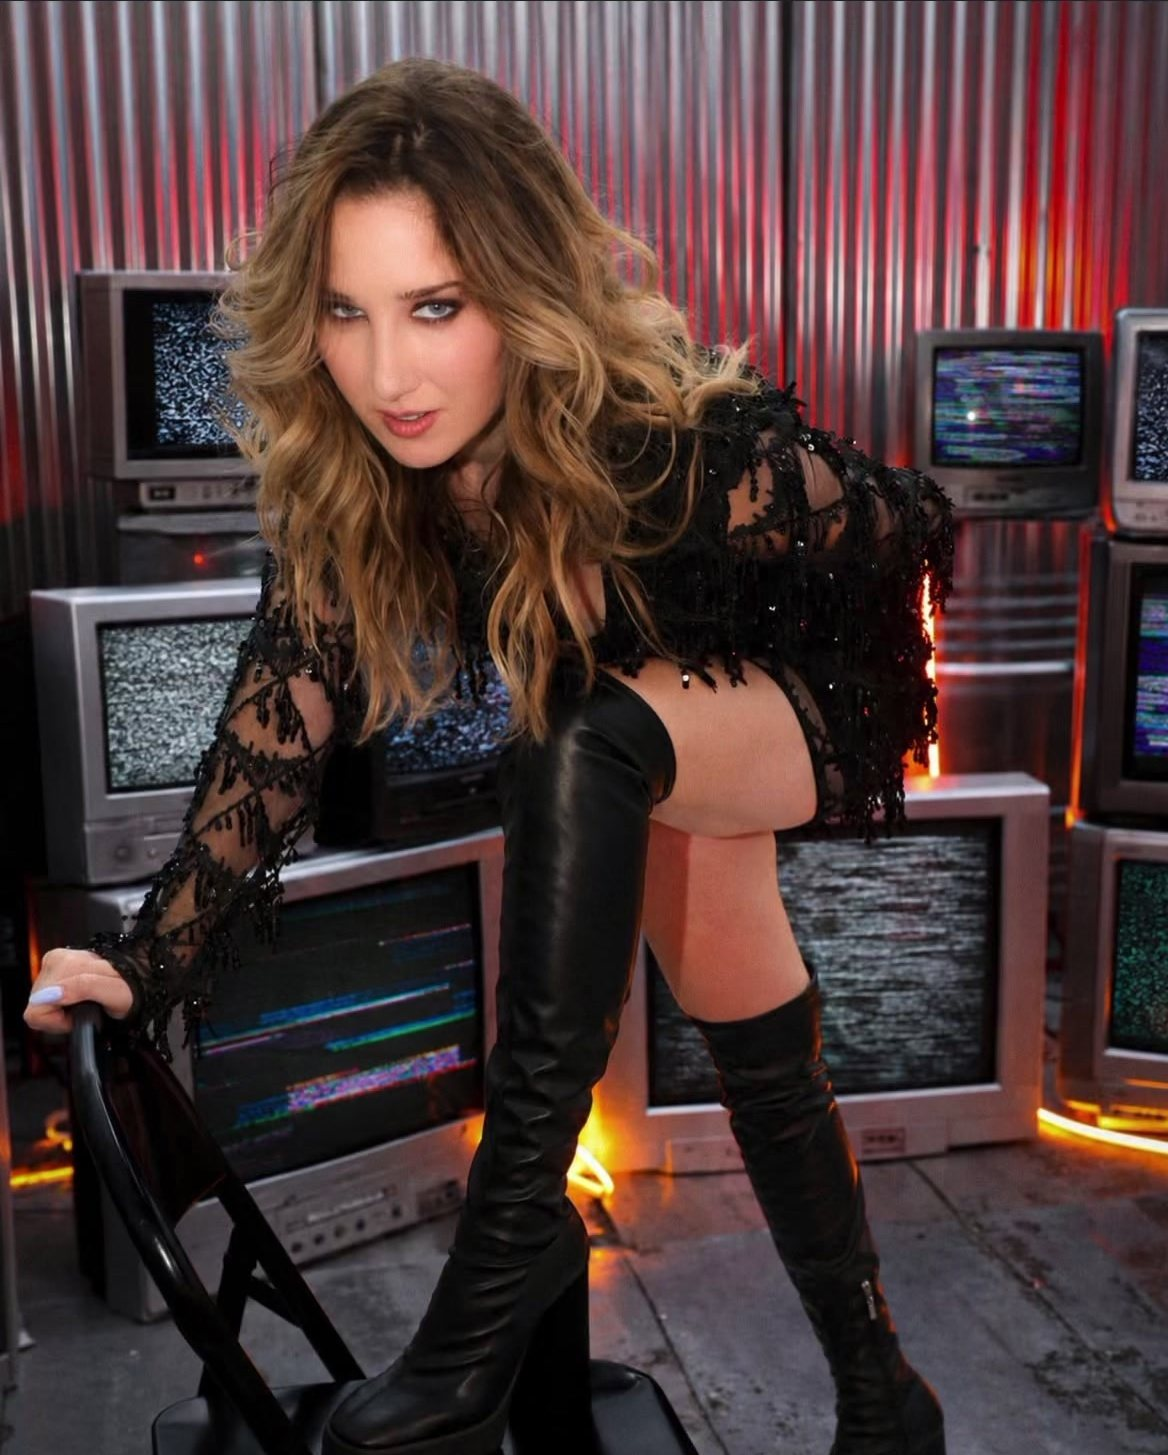
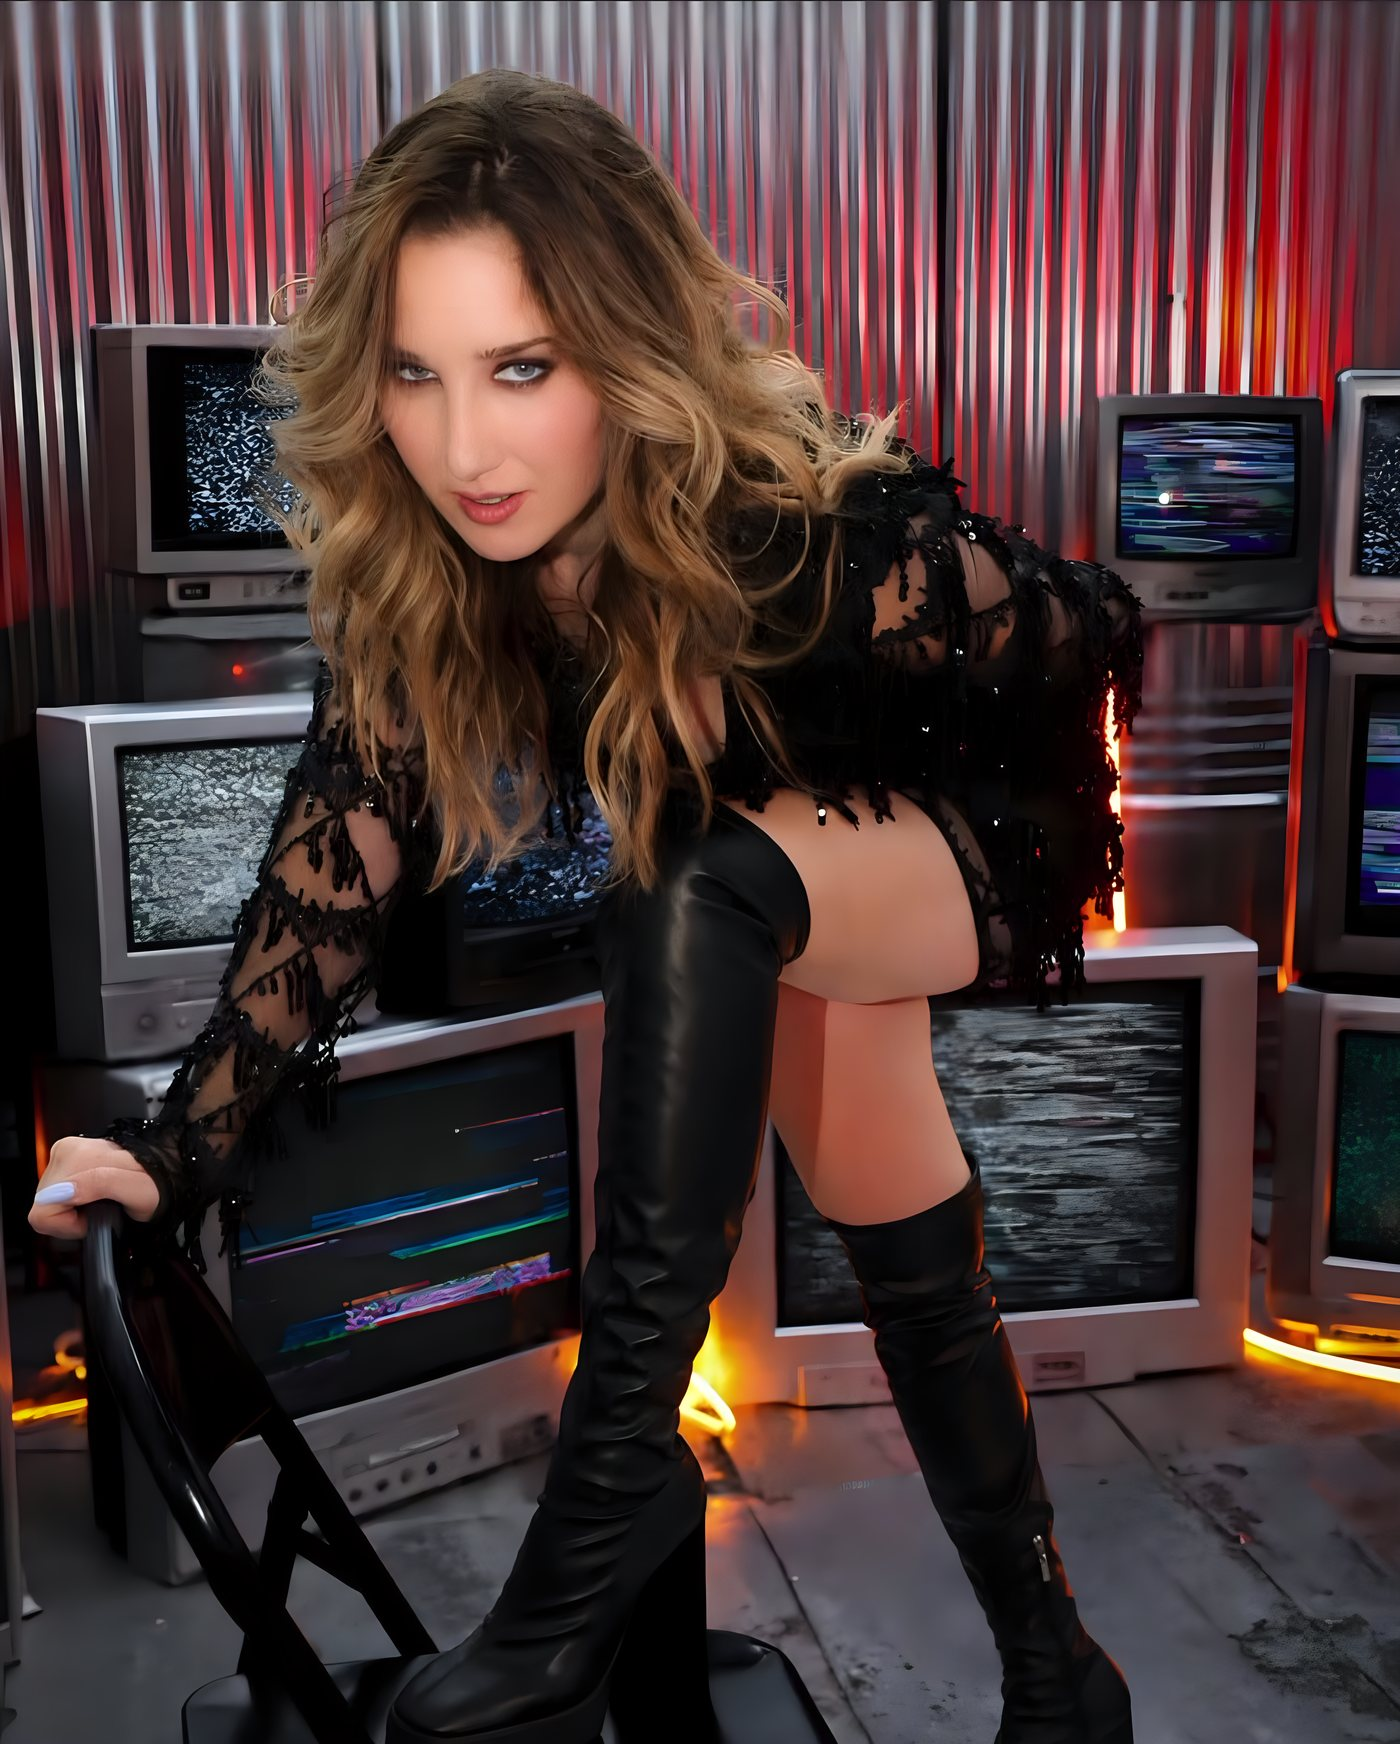
Book a Shoot: enhance every image, keep every face in frame (#20)
* Keep every face clear in the Book a Shoot hero stack

The front card covered the bottom of the blue-lit portrait's face at
every width. Lower and shorten it (top 22% -> 30%, height 72% -> 68%).

Claude-Session: https://claude.ai/code/session_018kHvtx6hTxezyWP4kJpPeQ

* Enhance every Book a Shoot image and keep all heads in frame

All 16 portfolio images are re-upscaled 4x with Real-ESRGAN from their
cleanest source frames and saved at 1400px.
- Silver-beard portrait: Instagram's "1/2" badge is painted out
  instead of cropped, so his full head is back.
- Fitness bench shot: re-cropped higher from the flyer with the frame
  line painted out, so the whole beanie shows.

An automated face check (crop and overlap, 7 viewport widths) reports
no hidden faces.

Claude-Session: https://claude.ai/code/session_018kHvtx6hTxezyWP4kJpPeQ

---------

diff --git a/book-a-shoot/index.html b/book-a-shoot/index.html
@@ -63,7 +63,7 @@
   .bs-stack img { display: block; width: 100%; height: 100%; object-fit: cover; }
   .bs-stack .s1 { width: 54%; height: 76%; left: 0;   top: 12%; transform: rotate(-6deg); }
   .bs-stack .s2 { width: 54%; height: 76%; right: 0;  top: 4%;  transform: rotate(5deg); }
-  .bs-stack .s3 { width: 52%; height: 72%; left: 24%; top: 22%; transform: rotate(-1deg); z-index: 2; }
+  .bs-stack .s3 { width: 52%; height: 68%; left: 24%; top: 30%; transform: rotate(-1deg); z-index: 2; }
   .bs-stack figcaption {
     position: absolute; left: 12px; bottom: 12px; padding: 6px 10px; border-radius: 999px;
     background: rgba(10,10,10,0.7); color: var(--cream);
@@ -246,9 +246,9 @@
       </div>
     </div>
     <div class="bs-stack" aria-hidden="true">
-      <figure class="s1"><img src="../images/book-a-shoot/editorial-lace.jpg" alt="" width="1168" height="1455"></figure>
-      <figure class="s2"><img src="../images/book-a-shoot/editorial-blue.jpg" alt="" width="1168" height="1340" style="object-position:center 20%"></figure>
-      <figure class="s3"><img src="../images/book-a-shoot/portrait-white-dress.jpg" alt="" width="1168" height="1340" style="object-position:62% center"><figcaption>@aureanatphoto</figcaption></figure>
+      <figure class="s1"><img src="../images/book-a-shoot/editorial-lace.jpg" alt="" width="1400" height="1744"></figure>
+      <figure class="s2"><img src="../images/book-a-shoot/editorial-blue.jpg" alt="" width="1400" height="1606" style="object-position:center 20%"></figure>
+      <figure class="s3"><img src="../images/book-a-shoot/portrait-white-dress.jpg" alt="" width="1400" height="1606" style="object-position:62% center"><figcaption>@aureanatphoto</figcaption></figure>
     </div>
   </div>
 </header>
@@ -264,7 +264,7 @@
     </p>
     <div class="bs-services">
       <article class="bs-card" id="fitness">
-        <div class="media"><img src="../images/book-a-shoot/fitness-bench.jpg" alt="Woman in a black training set seated on a gym bench in front of a dumbbell rack" width="1200" height="1784" loading="lazy" style="object-position:center 4%"></div>
+        <div class="media"><img src="../images/book-a-shoot/fitness-bench.jpg" alt="Woman in a black training set seated on a gym bench in front of a dumbbell rack" width="1200" height="1977" loading="lazy" style="object-position:center top"></div>
         <div class="body">
           <div class="tag">In the gym</div>
           <h3>Fitness Shoot</h3>
@@ -274,7 +274,7 @@
         </div>
       </article>
       <article class="bs-card" id="headshots">
-        <div class="media"><img src="../images/book-a-shoot/headshot-blonde.jpg" alt="Close-up portrait of a woman with long wavy strawberry-blonde hair" width="1168" height="940" loading="lazy" style="object-position:48% center"></div>
+        <div class="media"><img src="../images/book-a-shoot/headshot-blonde.jpg" alt="Close-up portrait of a woman with long wavy strawberry-blonde hair" width="1400" height="1127" loading="lazy" style="object-position:48% center"></div>
         <div class="body">
           <div class="tag">Professional</div>
           <h3>Headshots</h3>
@@ -284,7 +284,7 @@
         </div>
       </article>
       <article class="bs-card" id="individual">
-        <div class="media"><img src="../images/book-a-shoot/editorial-lace.jpg" alt="Woman in black lace and thigh-high boots posing on a chair among stacked vintage TVs" width="1168" height="1455" loading="lazy" style="object-position:center 15%"></div>
+        <div class="media"><img src="../images/book-a-shoot/editorial-lace.jpg" alt="Woman in black lace and thigh-high boots posing on a chair among stacked vintage TVs" width="1400" height="1744" loading="lazy" style="object-position:center 15%"></div>
         <div class="body">
           <div class="tag">Portrait &amp; editorial</div>
           <h3>Individual Shoot</h3>
@@ -318,21 +318,21 @@
     </p>
   </div>
   <div class="bs-reel" id="bsReel" tabindex="0" aria-label="Portfolio photos. Swipe or scroll sideways">
-    <figure><img src="../images/book-a-shoot/editorial-blue.jpg" width="1168" height="1340" alt="Woman with long blonde hair lit in blue, hands raised to her head"><figcaption>Editorial</figcaption></figure>
-    <figure><img src="../images/book-a-shoot/headshot-blonde.jpg" width="1168" height="940" loading="lazy" alt="Close-up portrait of a woman with long wavy strawberry-blonde hair"><figcaption>Headshot</figcaption></figure>
-    <figure><img src="../images/book-a-shoot/editorial-lace.jpg" width="1168" height="1455" loading="lazy" alt="Woman in black lace and thigh-high boots among stacked vintage TVs"><figcaption>Editorial</figcaption></figure>
-    <figure><img src="../images/book-a-shoot/fitness-bench.jpg" width="1200" height="1784" loading="lazy" alt="Woman in a black training set seated on a gym bench"><figcaption>Fitness</figcaption></figure>
-    <figure><img src="../images/book-a-shoot/editorial-bw.jpg" width="1168" height="1380" loading="lazy" alt="Black-and-white poolside portrait of a woman in a polka-dot swimsuit, headscarf and sunglasses"><figcaption>Editorial</figcaption></figure>
-    <figure><img src="../images/book-a-shoot/portrait-white-dress.jpg" width="1168" height="1340" loading="lazy" alt="Woman in a white slip dress seated by a window"><figcaption>Portrait</figcaption></figure>
-    <figure><img src="../images/book-a-shoot/editorial-fur.jpg" width="1168" height="1450" loading="lazy" alt="Woman in a fur coat and western boots in a white light tunnel"><figcaption>Editorial</figcaption></figure>
-    <figure><img src="../images/book-a-shoot/headshot-silver.jpg" width="1168" height="980" loading="lazy" alt="Man with a long white beard and bold black glasses in a white shirt"><figcaption>Portrait</figcaption></figure>
-    <figure><img src="../images/book-a-shoot/editorial-purple.jpg" width="1168" height="1455" loading="lazy" alt="Man in sunglasses and a utility vest against a purple collage wall"><figcaption>Editorial</figcaption></figure>
-    <figure><img src="../images/book-a-shoot/runway.jpg" width="680" height="1500" loading="lazy" alt="Model in a sheer black gown on an outdoor runway at night"><figcaption>Runway</figcaption></figure>
-    <figure><img src="../images/book-a-shoot/portrait-denim.jpg" width="898" height="1345" loading="lazy" alt="Man in a patchwork denim jacket posing against a denim wall"><figcaption>Portrait</figcaption></figure>
-    <figure><img src="../images/book-a-shoot/editorial-pool.jpg" width="1168" height="1200" loading="lazy" alt="Woman in sunglasses and a black-and-white set leaning on a tiled poolside bar"><figcaption>Editorial</figcaption></figure>
-    <figure><img src="../images/book-a-shoot/duo.jpg" width="1168" height="1440" loading="lazy" alt="Two women with red neck scarves posing together on a tufted sofa"><figcaption>Duo</figcaption></figure>
-    <figure><img src="../images/book-a-shoot/editorial-red.jpg" width="1170" height="1270" loading="lazy" alt="Man in a striped knit stretching in front of a red circle on a white set"><figcaption>Editorial</figcaption></figure>
-    <figure><img src="../images/book-a-shoot/portrait-blue.jpg" width="1055" height="1417" loading="lazy" alt="Man in an open black wrap shirt against a pale blue backdrop"><figcaption>Portrait</figcaption></figure>
+    <figure><img src="../images/book-a-shoot/editorial-blue.jpg" width="1400" height="1606" alt="Woman with long blonde hair lit in blue, hands raised to her head"><figcaption>Editorial</figcaption></figure>
+    <figure><img src="../images/book-a-shoot/headshot-blonde.jpg" width="1400" height="1127" loading="lazy" alt="Close-up portrait of a woman with long wavy strawberry-blonde hair"><figcaption>Headshot</figcaption></figure>
+    <figure><img src="../images/book-a-shoot/editorial-lace.jpg" width="1400" height="1744" loading="lazy" alt="Woman in black lace and thigh-high boots among stacked vintage TVs"><figcaption>Editorial</figcaption></figure>
+    <figure><img src="../images/book-a-shoot/fitness-bench.jpg" width="1200" height="1977" loading="lazy" alt="Woman in a black training set seated on a gym bench"><figcaption>Fitness</figcaption></figure>
+    <figure><img src="../images/book-a-shoot/editorial-bw.jpg" width="1400" height="1654" loading="lazy" alt="Black-and-white poolside portrait of a woman in a polka-dot swimsuit, headscarf and sunglasses"><figcaption>Editorial</figcaption></figure>
+    <figure><img src="../images/book-a-shoot/portrait-white-dress.jpg" width="1400" height="1606" loading="lazy" alt="Woman in a white slip dress seated by a window"><figcaption>Portrait</figcaption></figure>
+    <figure><img src="../images/book-a-shoot/editorial-fur.jpg" width="1400" height="1738" loading="lazy" alt="Woman in a fur coat and western boots in a white light tunnel"><figcaption>Editorial</figcaption></figure>
+    <figure><img src="../images/book-a-shoot/headshot-silver.jpg" width="1400" height="1378" loading="lazy" alt="Man with a long white beard and bold black glasses in a white shirt"><figcaption>Portrait</figcaption></figure>
+    <figure><img src="../images/book-a-shoot/editorial-purple.jpg" width="1400" height="1744" loading="lazy" alt="Man in sunglasses and a utility vest against a purple collage wall"><figcaption>Editorial</figcaption></figure>
+    <figure><img src="../images/book-a-shoot/runway.jpg" width="900" height="1985" loading="lazy" alt="Model in a sheer black gown on an outdoor runway at night"><figcaption>Runway</figcaption></figure>
+    <figure><img src="../images/book-a-shoot/portrait-denim.jpg" width="1400" height="2097" loading="lazy" alt="Man in a patchwork denim jacket posing against a denim wall"><figcaption>Portrait</figcaption></figure>
+    <figure><img src="../images/book-a-shoot/editorial-pool.jpg" width="1400" height="1438" loading="lazy" alt="Woman in sunglasses and a black-and-white set leaning on a tiled poolside bar"><figcaption>Editorial</figcaption></figure>
+    <figure><img src="../images/book-a-shoot/duo.jpg" width="1400" height="1726" loading="lazy" alt="Two women with red neck scarves posing together on a tufted sofa"><figcaption>Duo</figcaption></figure>
+    <figure><img src="../images/book-a-shoot/editorial-red.jpg" width="1400" height="1520" loading="lazy" alt="Man in a striped knit stretching in front of a red circle on a white set"><figcaption>Editorial</figcaption></figure>
+    <figure><img src="../images/book-a-shoot/portrait-blue.jpg" width="1400" height="1880" loading="lazy" alt="Man in an open black wrap shirt against a pale blue backdrop"><figcaption>Portrait</figcaption></figure>
     <figure><img src="../images/book-a-shoot/fitness-portrait.jpg" width="1200" height="1297" loading="lazy" alt="Smiling woman in a black tank top with arms crossed in a gym"><figcaption>Fitness</figcaption></figure>
   </div>
   <div class="bs-controls">
@@ -347,7 +347,7 @@
   <div class="container-narrow bs-meet">
     <figure class="fade-in">
       <!-- Photo of Nat by another photographer: add a visible credit (figcaption) once Zay confirms who shot it. -->
-      <img src="../images/book-a-shoot/meet-nat.jpg" width="1168" height="1608" loading="lazy"
+      <img src="../images/book-a-shoot/meet-nat.jpg" width="1400" height="1927" loading="lazy"
            alt="Nat Guerrero seated on a director's chair holding a clapperboard in a studio">
     </figure>
     <div>

diff --git a/_docs/CONVERSION_OPTIMIZATION_LOG.md b/_docs/CONVERSION_OPTIMIZATION_LOG.md
@@ -14,6 +14,24 @@ data per event plus qualitative feedback.
 
 ---
 
+## 2026-10-29 — Book a Shoot images enhanced; no heads cut off
+- **Pages:** `book-a-shoot/`, `images/book-a-shoot/` (16 images)
+- **Category:** A → D
+- **Problem:** Portfolio images were ~1170px screen-recording crops (soft, HEVC artifacts);
+  two crops cut heads (silver-beard portrait's top-knot, fitness-bench beanie); the hero stack's
+  front card covered part of a face at every width.
+- **Change:** Every image re-run through Real-ESRGAN ×4 (CPU/ONNX) from the cleanest source
+  frame, saved at 1400px (runway 900px). Silver portrait: IG's "1/2" badge inpainted instead of
+  cropped, so the full head is back. Fitness bench: re-cropped higher from the flyer and the
+  tilted frame line inpainted, so the whole beanie is in frame. Hero stack front card lowered
+  (top 22%→30%, height 72%→68%).
+- **Tested:** automated face check — head boxes for all 17 images mapped through object-fit/
+  object-position and sampled with `elementFromPoint` (catches crop *and* overlap) at
+  360/390/768/1081/1280/1400/1920px: 0 failures. Page total images 3.8 MB, all below-the-fold
+  ones lazy-loaded.
+- **Expected impact:** Medium on trust/perceived quality of the shoot offer; unmeasured.
+- **Measure:** DM inquiries per week from the Book a Shoot page (ask "where did you find us").
+
 ## 2026-10-29 — Homepage hero sells the next event; ticket inclusions on checkout
 - **Pages:** `index.html` hero, `styles.css` (hero block), `events/the-statement/checkout/`
 - **Category:** A → D (implemented; impact unmeasured)
